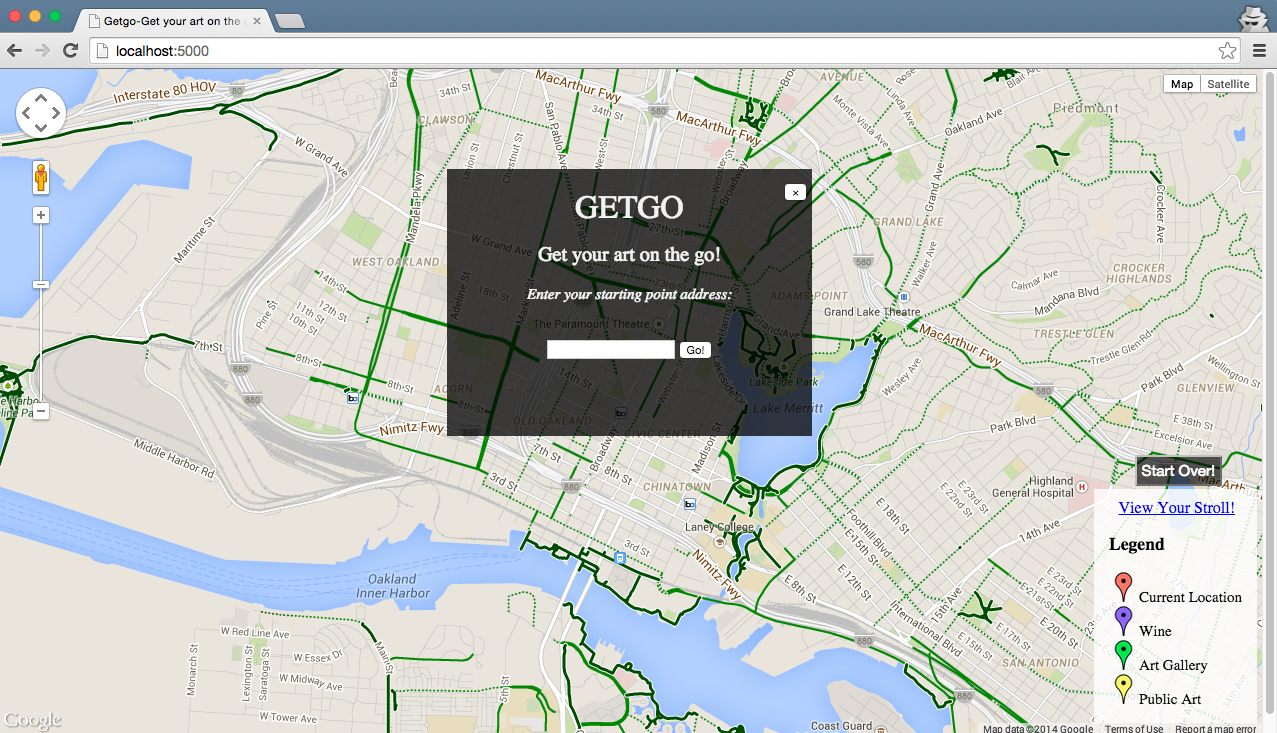
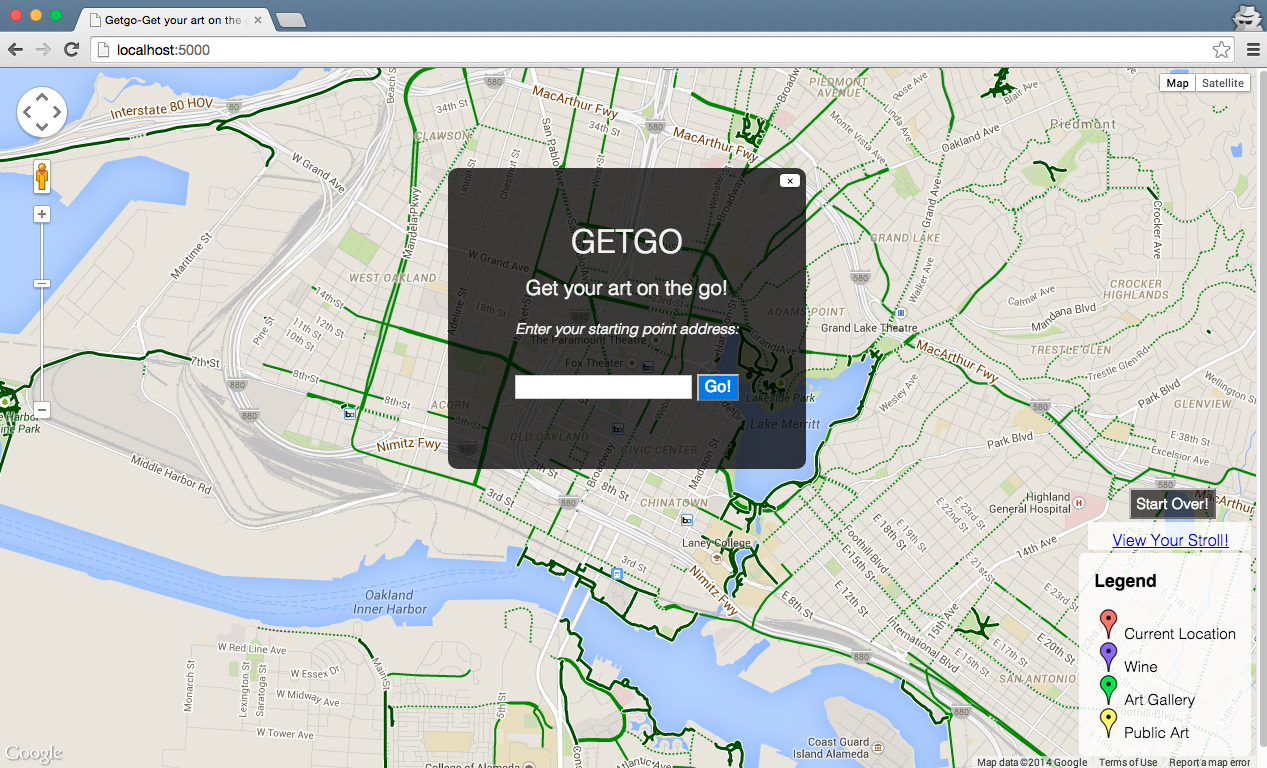
Cleanup

diff --git a/static/css/style.css b/static/css/style.css
@@ -34,15 +34,17 @@ h4 {
 }
 
 #close-btn {
-  font-size: 5px;
+  font-size: 10px;
   font-weight: 100;
   z-index: 1000; 
   position: absolute; 
-  bottom: 235px; 
+  bottom: 280px; 
   right: 5px;
 }
 
+
 #start-over-btn {
+  border-radius: 3%;
   color:white;
   font-size: 15px;
   font-weight: 300;
@@ -55,6 +57,7 @@ h4 {
 }
 
 #overlay-form {
+    border-radius: 3%;
     position: absolute;
     background-color: rgba(0, 0, 0, .75);
     left: 0px;
@@ -66,6 +69,7 @@ h4 {
 }
 
 #address-form { 
+    border-radius: 3%;
     margin: auto;
     top: 0;
     right: 0;
@@ -73,7 +77,7 @@ h4 {
     left: 0;
     position: fixed;
     background-color: #fff;
-    padding: 15px;
+    padding: 50px;
     z-index:1000;
     background-color: rgba(0, 0, 0, .75);
     color: rgba(255,255,255,.93);
@@ -97,6 +101,7 @@ h4 {
 }
 
 .overlay div {
+    border-radius: 3%;
     overflow: auto;
     width:400px;
     margin: 100px auto;
@@ -110,6 +115,7 @@ h4 {
 }
 
 #legend {
+  border-radius: 3%;
   font-size: 15px;
   font-weight: 300;
   z-index: 1000; 
@@ -124,6 +130,7 @@ h4 {
 }
 
 #button-overlay {
+  border-radius: 3%;
   position: absolute; 
   font-size: 25;
   font-weight: 300;

diff --git a/templates/index.html b/templates/index.html
@@ -1,6 +1,7 @@
 <!DOCTYPE html>
 <html>
   <head>
+    <link rel="stylesheet" href="http://yui.yahooapis.com/pure/0.5.0/pure-min.css">
     <meta name="viewport" content="initial-scale=1.0, user-scalable=no">
     <meta charset="utf-8">
     <title>Getgo-Get your art on the go!</title>
@@ -67,7 +68,7 @@
         <div class="form"><form action="/" 
           method="GET"><h4>Enter your starting point address:</h4><br>
           <input type="text" name="address" id="address"> 
-          <button id="go-button" type="submit">Go!</button>
+          <button class="pure-button-primary" id="go-button" type="submit">Go!</button>
           </form>
         </div>
     </div>

diff --git a/static/js/mapping.js b/static/js/mapping.js
@@ -41,7 +41,7 @@ var myLatlng = new google.maps.LatLng(37.8044, -122.2708);
 (function (bike) {
   bike.initialize = function initialize() {  
     var infowindow = new google.maps.InfoWindow( {
-      maxWidth: 1000
+      minWidth: 5000
     });
     var markers = [];
     var array_places = [];

diff --git a/README.md b/README.md
@@ -50,13 +50,15 @@ token_secret = "xxxxxxxxxxxxx"<br>
 
 <h3><strong>Future Plans/ Current Wish List</strong></h3>
 <ul><li>Edit markers to show sequential places visited A, B, C...</li>
+  <li>Show bike directions</li>
   <li>Convert from Yelp API to Foursquare or Google Places API</li>
   <li>Convert to Mapbox mapping API</li>
   <li>Show current events (monthly art events) and tie into Oakland Art Murmur</li>
   <li>Allow the removal of selected routes if desired </li>
   <li>Store visited locations per user</li>
   <li>Add more dynamic inputs (search radius, search categories)</li>
-  <li>Improve overall design and user experience</li></ul>
+  <li>Improve overall design and user experience</li>
+  <li>Optimize for mobile application</li></ul>
 
 <h3><strong>Acknowledgments</strong></h3>
 I want to thank all of the Hackbright staff for their support, guidance, and encouragement day after day.  I am in awe of how much I have learned in such a short time and I am so inspired and excited to keep on learning.
